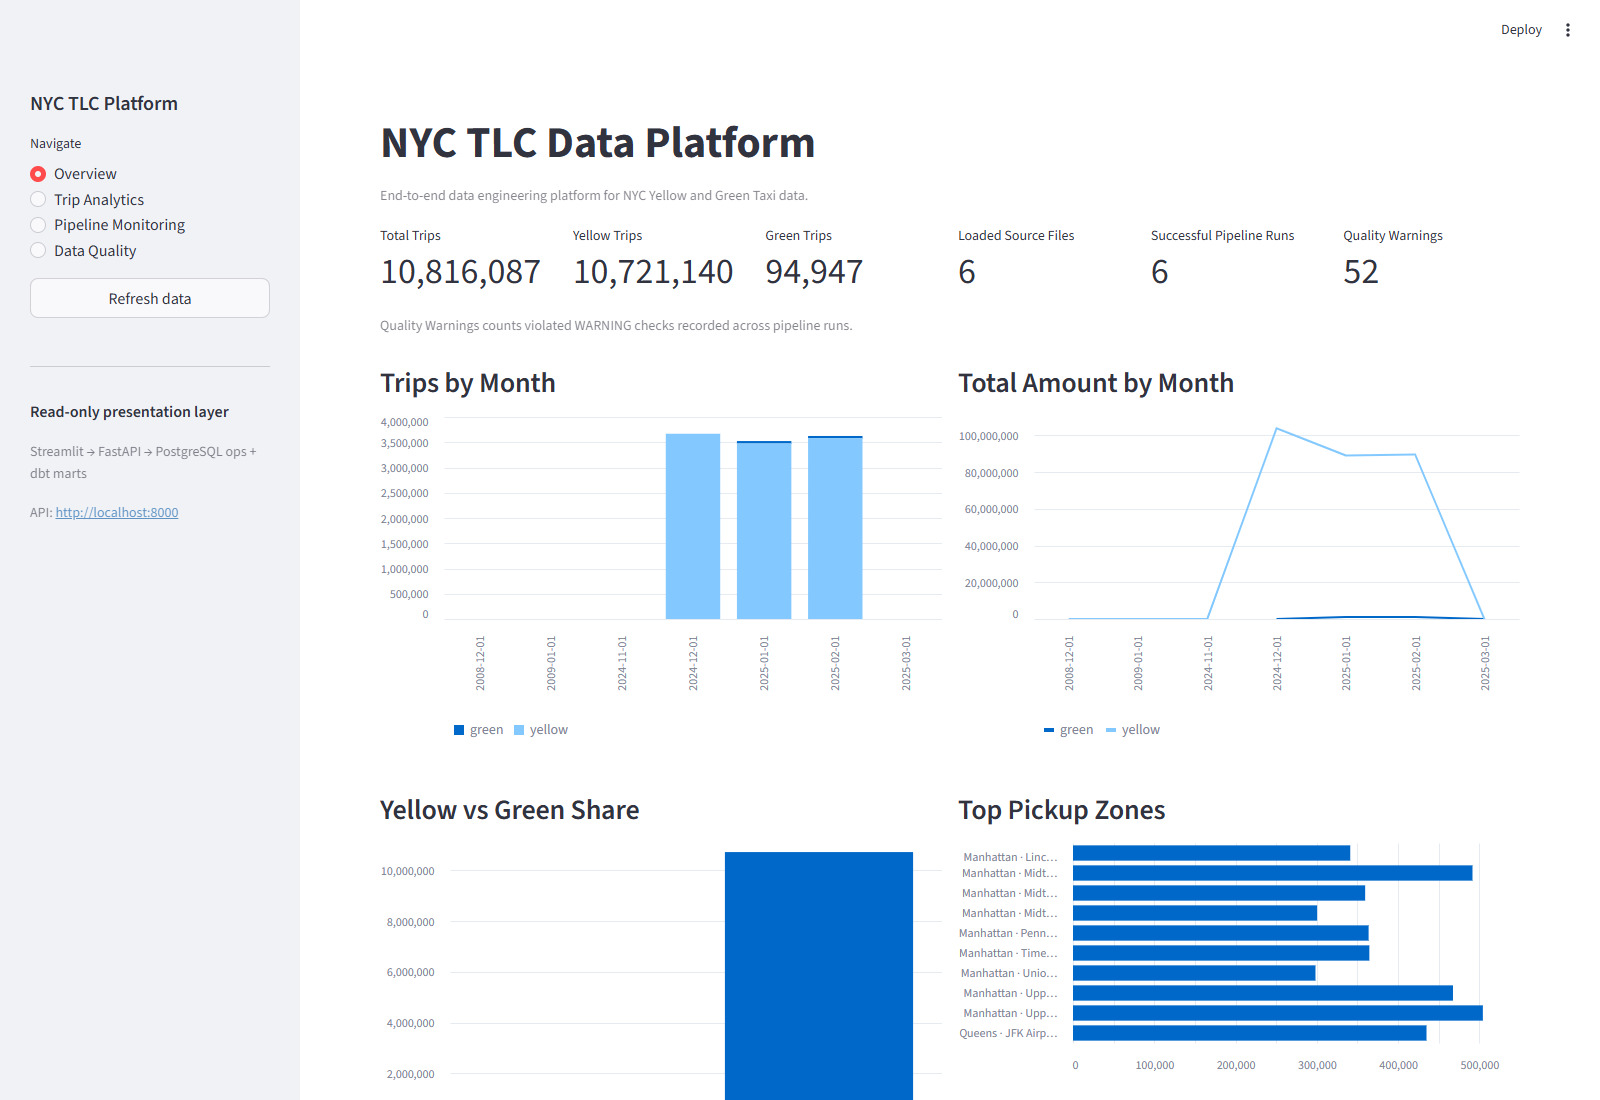
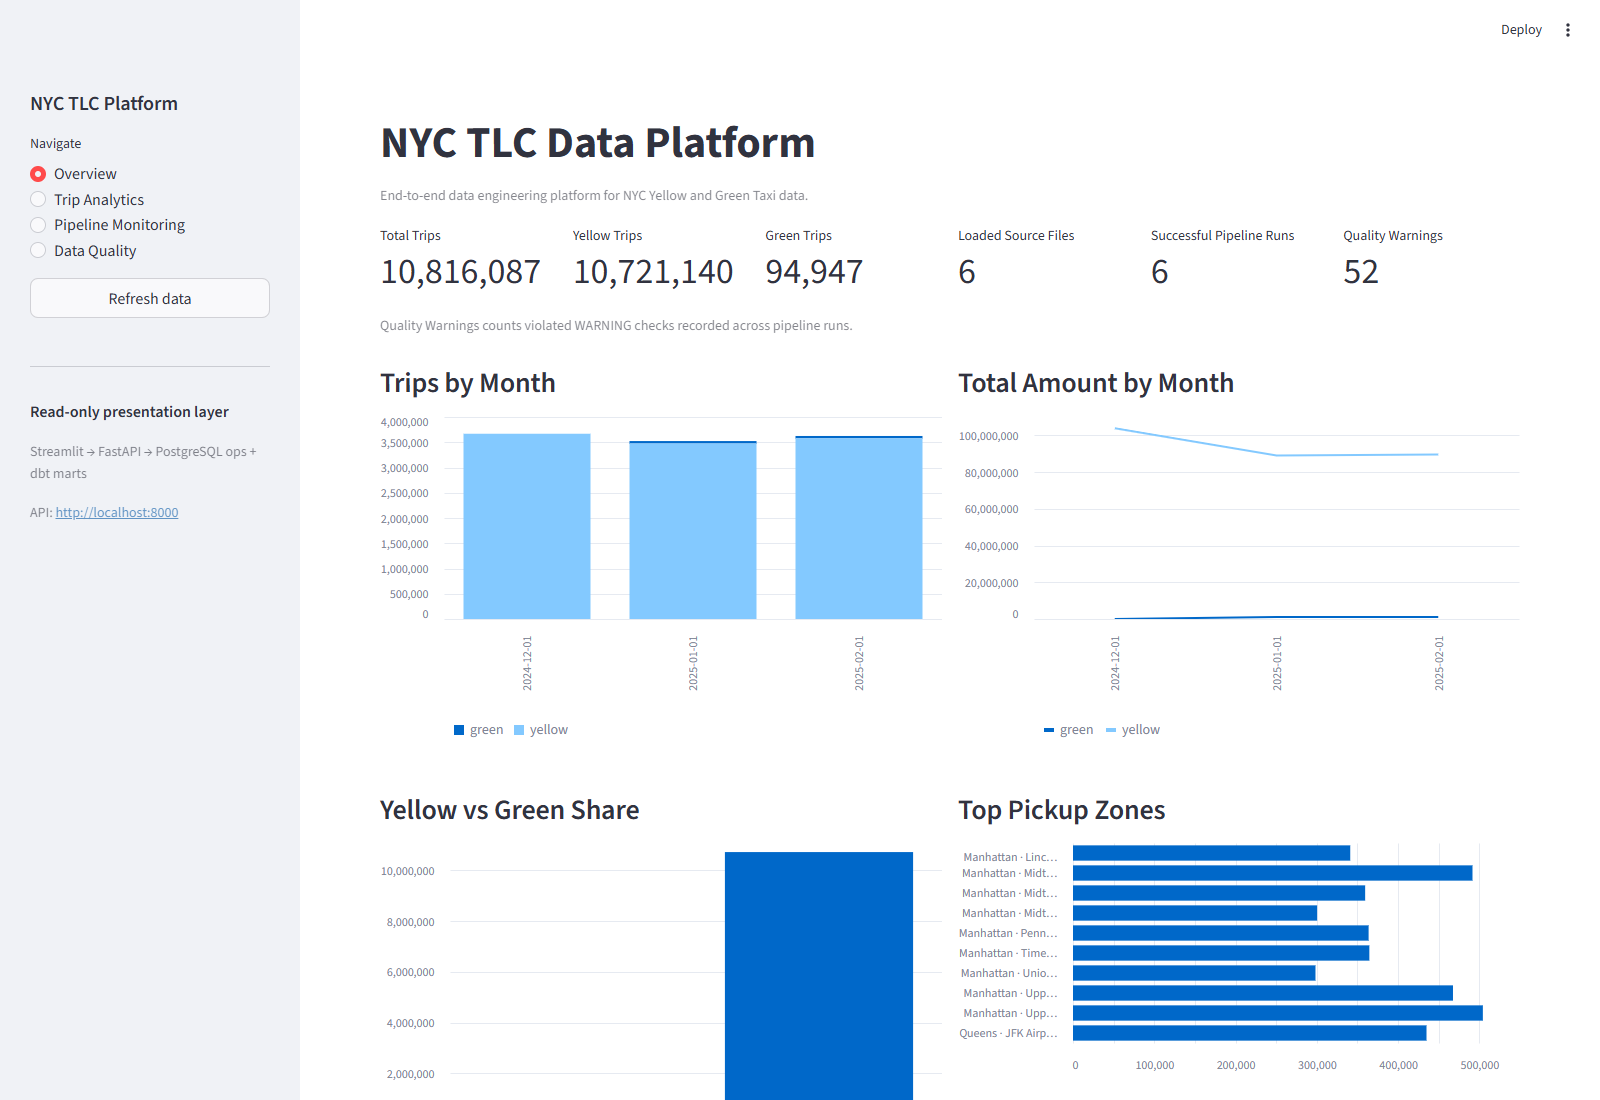
Polish dashboard and repository ignores

diff --git a/src/taxi_pipeline/dashboard/views/pipeline.py b/src/taxi_pipeline/dashboard/views/pipeline.py
@@ -8,7 +8,7 @@ import streamlit as st
 
 from taxi_pipeline.dashboard.components import (
     duration_label,
-    format_integer,
+    format_optional_integer,
     partition_label,
     render_empty,
     render_metrics,
@@ -41,7 +41,7 @@ def render(load: Loader) -> None:
             }
             for run in runs
         ]
-        st.dataframe(pd.DataFrame(run_rows), hide_index=True, use_container_width=True)
+        st.dataframe(pd.DataFrame(run_rows), hide_index=True, width="stretch")
         selected_run_id = st.selectbox(
             "Inspect Run",
             [run["run_id"] for run in runs],
@@ -66,7 +66,7 @@ def render(load: Loader) -> None:
         }
         for source in sources
     ]
-    st.dataframe(pd.DataFrame(source_rows), hide_index=True, use_container_width=True)
+    st.dataframe(pd.DataFrame(source_rows), hide_index=True, width="stretch")
     selected_source_id = st.selectbox(
         "Inspect Source",
         [source["source_file_id"] for source in sources],
@@ -92,8 +92,8 @@ def _render_run_detail(run: dict[str, Any]) -> None:
             ("Run ID", str(run["run_id"])),
             ("Source File ID", str(run.get("source_file_id") or "—")),
             ("Status", status_label(run["status"])),
-            ("Rows Read", format_integer(run.get("rows_read"))),
-            ("Rows Loaded", format_integer(run.get("rows_loaded"))),
+            ("Rows Read", format_optional_integer(run.get("rows_read"))),
+            ("Rows Loaded", format_optional_integer(run.get("rows_loaded"))),
             ("Duration", duration_label(run["started_at"], run.get("finished_at"))),
         ]
     )
@@ -118,7 +118,7 @@ def _render_source_detail(source: dict[str, Any]) -> None:
         "Checksum": source["checksum_sha256"],
         "Schema Fingerprint": source.get("schema_fingerprint") or "—",
         "File Size": f"{source['file_size_bytes']:,} bytes",
-        "Row Count": format_integer(source.get("row_count")),
+        "Row Count": format_optional_integer(source.get("row_count")),
         "Status": status_label(source["status"]),
         "Storage Backend": source["storage_backend"],
         "Storage URI": source.get("storage_uri") or "—",

diff --git a/src/taxi_pipeline/dashboard/components.py b/src/taxi_pipeline/dashboard/components.py
@@ -2,7 +2,8 @@
 
 from __future__ import annotations
 
-from datetime import datetime
+import calendar
+from datetime import date, datetime
 from typing import Any
 
 import pandas as pd
@@ -32,6 +33,10 @@ def partition_label(item: dict[str, Any]) -> str:
 
 def format_integer(value: Any) -> str:
     return f"{int(value or 0):,}"
+
+
+def format_optional_integer(value: Any) -> str:
+    return "—" if value is None else f"{int(value):,}"
 
 
 def format_money(value: Any) -> str:
@@ -69,6 +74,22 @@ def monthly_frame(rows: list[dict[str, Any]]) -> pd.DataFrame:
         return frame
     frame["month"] = frame["month"].fillna("Unknown")
     return frame
+
+
+def loaded_date_bounds(sources: list[dict[str, Any]]) -> tuple[date, date] | None:
+    months = sorted(
+        date(source["source_year"], source["source_month"], 1)
+        for source in sources
+        if source.get("status") == "loaded"
+        and source.get("service_type") in {"yellow", "green"}
+        and source.get("source_year")
+        and source.get("source_month")
+    )
+    if not months:
+        return None
+    last_month = months[-1]
+    last_day = calendar.monthrange(last_month.year, last_month.month)[1]
+    return months[0], last_month.replace(day=last_day)
 
 
 def render_empty(message: str) -> None:

diff --git a/src/taxi_pipeline/dashboard/views/analytics.py b/src/taxi_pipeline/dashboard/views/analytics.py
@@ -1,8 +1,6 @@
 """Filtered warehouse analytics view."""
 
-import calendar
 from collections.abc import Callable
-from datetime import date
 from typing import Any
 
 import pandas as pd
@@ -12,6 +10,7 @@ from taxi_pipeline.dashboard.components import (
     format_decimal,
     format_integer,
     format_money,
+    loaded_date_bounds,
     monthly_frame,
     render_empty,
     render_metrics,
@@ -22,15 +21,12 @@ Loader = Callable[..., Any]
 
 def render(load: Loader) -> None:
     st.title("Trip Analytics")
-    available = load("analytics_monthly")
-    dated_months = sorted(row["month"] for row in available if row.get("month"))
-    if not dated_months:
+    sources = load("list_all_sources")
+    date_bounds = loaded_date_bounds(sources)
+    if date_bounds is None:
         render_empty("No analytics data is available for filtering.")
         return
-
-    first = date.fromisoformat(dated_months[0])
-    last_month = date.fromisoformat(dated_months[-1])
-    last = last_month.replace(day=calendar.monthrange(last_month.year, last_month.month)[1])
+    first, last = date_bounds
 
     service_label = st.selectbox("Service Type", ["All", "Yellow", "Green"])
     selected_dates = st.date_input("Date Range", value=(first, last), min_value=first, max_value=last)

diff --git a/tests/unit/test_dashboard_components.py b/tests/unit/test_dashboard_components.py
@@ -1,6 +1,7 @@
 from taxi_pipeline.dashboard.components import (
     duration_label,
     format_percentage,
+    loaded_date_bounds,
     monthly_frame,
     partition_label,
     status_label,
@@ -25,6 +26,18 @@ def test_monthly_frame_keeps_unknown_analytics_bucket_visible():
     )
 
     assert frame["month"].tolist() == ["Unknown", "2025-01-01"]
+
+
+def test_loaded_date_bounds_use_registered_source_partitions_not_trip_anomalies():
+    bounds = loaded_date_bounds(
+        [
+            {"status": "loaded", "service_type": "yellow", "source_year": 2024, "source_month": 12},
+            {"status": "loaded", "service_type": "green", "source_year": 2025, "source_month": 2},
+            {"status": "revision_detected", "service_type": "yellow", "source_year": 2030, "source_month": 1},
+        ]
+    )
+
+    assert tuple(value.isoformat() for value in bounds) == ("2024-12-01", "2025-02-28")
 
 
 def test_dashboard_app_import_has_no_api_side_effect():

diff --git a/src/taxi_pipeline/dashboard/views/overview.py b/src/taxi_pipeline/dashboard/views/overview.py
@@ -8,6 +8,7 @@ import streamlit as st
 
 from taxi_pipeline.dashboard.components import (
     format_integer,
+    loaded_date_bounds,
     monthly_frame,
     render_empty,
     render_metrics,
@@ -39,8 +40,12 @@ def render(load: Loader) -> None:
     )
     st.caption("Quality Warnings counts violated WARNING checks recorded across pipeline runs.")
 
-    monthly = monthly_frame(load("analytics_monthly"))
-    zones = pd.DataFrame(load("analytics_zones", limit=10))
+    date_bounds = loaded_date_bounds(sources)
+    date_params = (
+        {"start_date": date_bounds[0], "end_date": date_bounds[1]} if date_bounds else {}
+    )
+    monthly = monthly_frame(load("analytics_monthly", **date_params))
+    zones = pd.DataFrame(load("analytics_zones", **date_params, limit=10))
     if monthly.empty:
         render_empty("No analytics data is available yet.")
         return

diff --git a/src/taxi_pipeline/dashboard/views/quality.py b/src/taxi_pipeline/dashboard/views/quality.py
@@ -71,7 +71,7 @@ def render(load: Loader) -> None:
         for result in results
     ]
     st.subheader("Quality Results")
-    st.dataframe(pd.DataFrame(rows), hide_index=True, use_container_width=True)
+    st.dataframe(pd.DataFrame(rows), hide_index=True, width="stretch")
 
     warnings_frame = pd.DataFrame(
         [r for r in results if r["severity"] == "WARNING" and r["status"] == "violated"]

diff --git a/src/taxi_pipeline/dashboard/app.py b/src/taxi_pipeline/dashboard/app.py
@@ -42,7 +42,7 @@ def main() -> None:
             "Navigate",
             ["Overview", "Trip Analytics", "Pipeline Monitoring", "Data Quality"],
         )
-        if st.button("Refresh data", use_container_width=True):
+        if st.button("Refresh data", width="stretch"):
             st.cache_data.clear()
             st.rerun()
         st.divider()
